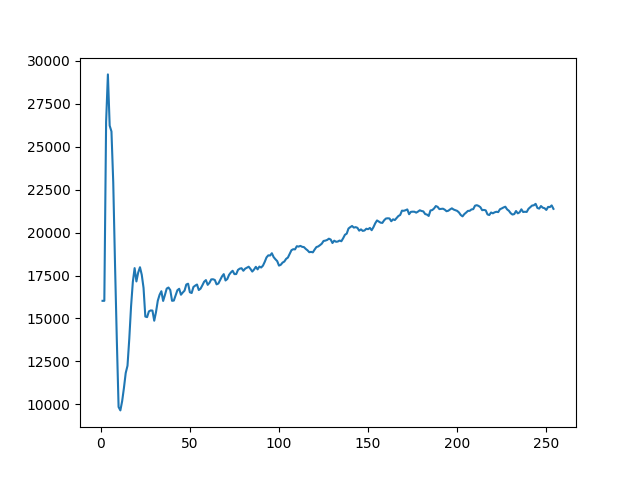
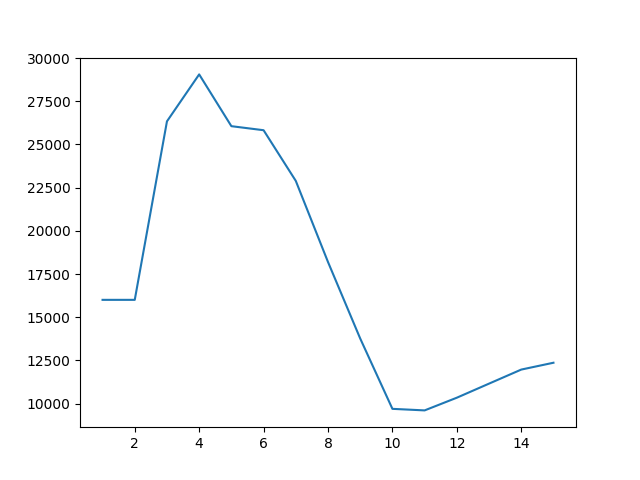
Вроде все

diff --git a/lab2/src/organisms_1.py b/lab2/src/organisms_1.py
@@ -35,11 +35,11 @@ class CellularAutomaton:
 
         # Цвета
         self.WHITE = (255, 255, 255)
-        self.GREEN = (0, 255, 0)
+        self.GREEN = (139, 0, 255)
         self.BLACK = (0, 0, 0)
 
         # Шрифт для отображения информации
-        self.font = pygame.font.SysFont('Arial', 16, True)
+        self.font = pygame.font.SysFont('Arial', 20, True)
 
         # Инициализация состояний клеток
         self.cells_state = [[0] * self.N for i in range(self.N)]
@@ -139,7 +139,7 @@ class CellularAutomaton:
         TAKT.append(self.count)
         text = f"Такт: {self.count} | Живые: {alive} | Мёртвые: {dead}"
         text_surface = self.font.render(text, True, self.BLACK)
-        self.screen.blit(text_surface, (20, 20))
+        self.screen.blit(text_surface, (0, 100))
 
         pygame.display.flip()
 
@@ -181,5 +181,5 @@ class CellularAutomaton:
 if __name__ == "__main__":
     # Размер N уменьшен для более наглядной визуализации
     # Вы можете установить исходное значение N=256, если нужно
-    automaton = CellularAutomaton(900, 900, N=256)
+    automaton = CellularAutomaton(1000, 1000, N=256)
     automaton.run()
